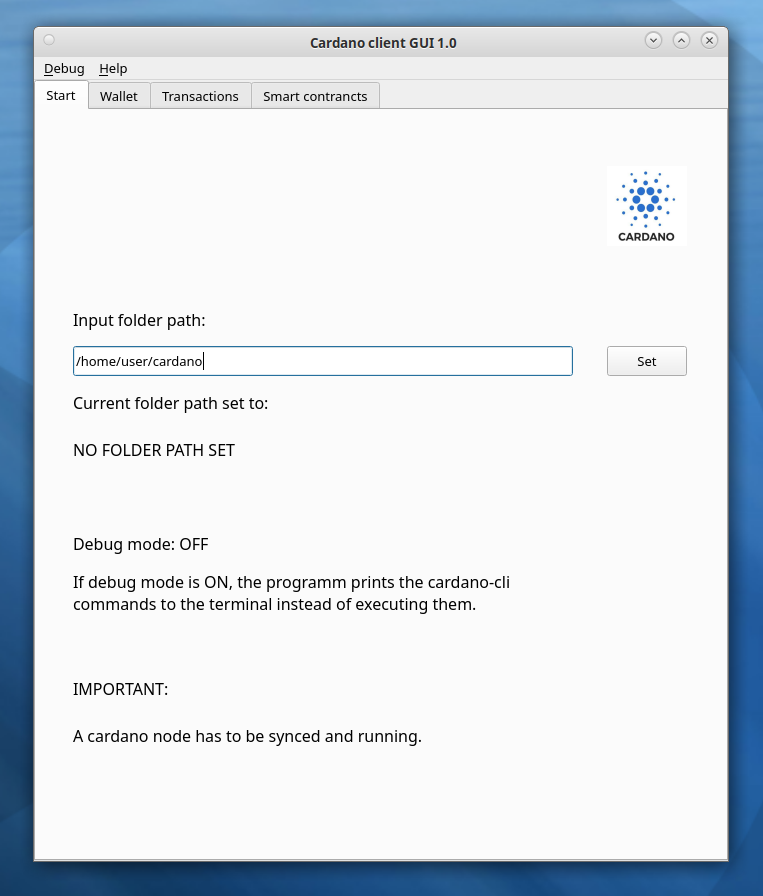
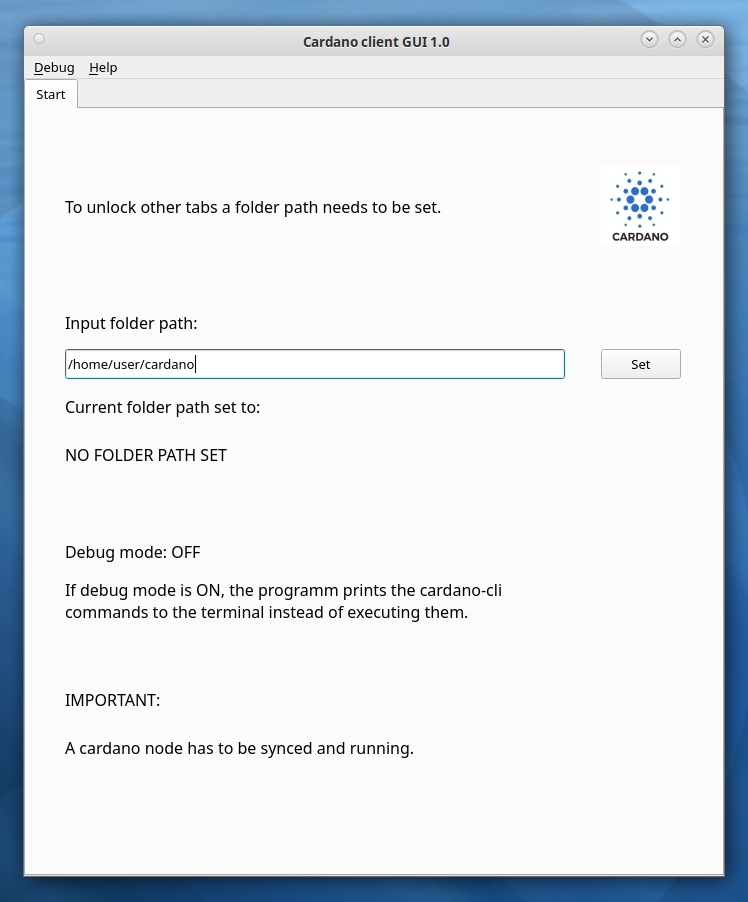
Updating README.md and start image.

diff --git a/README.md b/README.md
@@ -1,19 +1,19 @@
 # cardano-cli-gui
 Simple GUI for the cardano client tool. Works only on linux operating systems.
 
-**IMPORTANT:** Project is under construction. The gui does not work yet.<br>
+**IMPORTANT:** Project is under construction. The gui does not work fully yet.<br>
 **IMPORTANT:** To use the GUI a cardano node has to be running and synced to the network.
 
 The GUI functionality is seperated in 4 tabs and covers following things:
 
 1. **Start** tab, that notifies the user that a cardano node has to be
-running in order for the GUI to work. The user can also set the current 
-folder from this tab, that will be used to load and save files.
+running in order for the GUI to work. The user also has to set the current 
+folder from this tab, that will be used to load and save files. 
 
 ![alt text](https://github.com/LukaKurnjek/cardano-cli-gui/blob/main/images/start.png) 
 
 2. **Wallet** tab, that handles loading or generating verification and 
-signing keys, payment addresses and payment public key hashes. 
+signing keys, payment address and payment public key hash. 
 
 ![alt text](https://github.com/LukaKurnjek/cardano-cli-gui/blob/main/images/wallet.png)
 
